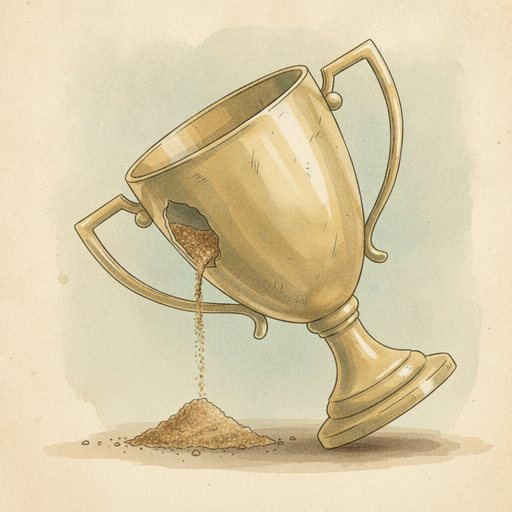
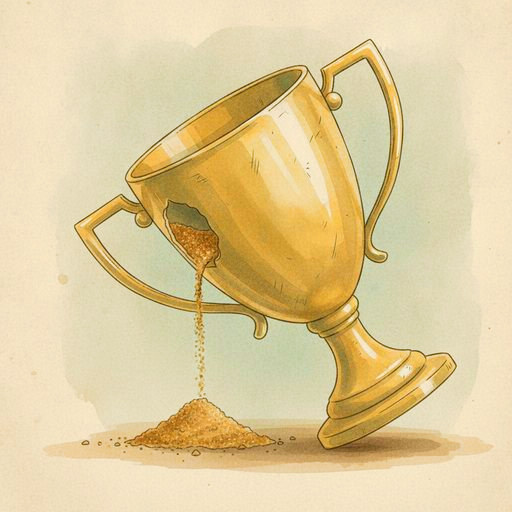
Dlazdice online lobby dobarveny, nastroj na dobarveni je nove v repu
Hrac: dlazdice Svetove ligy jsou prilis vybledle. Postup byl popsany
v CLAUDE.md od 15. 9., ale skript lezel ve scratchpadu minule session,
takze se psal znovu - stejna past, kvuli ktere se 13. 9. stehovaly
nastroje na ilustrace do repa.

scripts/ilustrace/dobarvi.js bere zdroj pres "git show HEAD", ne ze
souboru na disku. Dobarvit uz dobarveny JPEG je nevratna ztrata a slovni
varovani v dokumentaci nikdo pri patem spusteni necte.

Pletova barva snasi saturaci hur nez zbytek palety: pri sile 0,7, ktera
u globu a poharu vypada dobre, byla ruka na zk-daily neprirozene
oranzova. Porovnani ctyr sil ukazalo, ze 0,4 zvyrazni pozadi a plet
necha pleti. Proto zk-live, zk-link a zk-tourney 0,7, zk-daily 0,4.

Overeno v prohlizeci v lobby, ne jen na archu.

Changed region(s): [[0.125, 0.0938, 0.9062, 0.9375], [0.5625, 0.3125, 0.5938, 0.3438]]

diff --git a/scripts/ilustrace/dobarvi.js b/scripts/ilustrace/dobarvi.js
@@ -1,0 +1,106 @@
+"use strict";
+/**
+ * Dobarví malovanou ilustraci: zvýší sytost TAM, KDE UŽ BARVA JE, a nechá na pokoji
+ * papír. Bez toho zežloutne podklad a z ilustrace je fotka přes sepiový filtr.
+ *
+ * Váha je vzdálenost pixelu od barvy papíru, která se NAVZORKUJE Z ROHŮ obrázku —
+ * každá ilustrace má trochu jiný odstín papíru, takže pevná hodnota by u některé
+ * dobarvila i podklad. (CLAUDE.md 2026-09-15)
+ *
+ * ZDROJ SE BERE Z GITU, ne z disku. Dobarvit už dobarvený JPEG je nevratná ztráta
+ * a v projektu se to málem stalo — takhle to nejde ani omylem, ať se skript pustí
+ * kolikrát chce. Soubor musí být v HEAD; necommitnutý nový obrázek skript odmítne.
+ *
+ * Síla: 0,4 hráči nestačila, dlaždice témat i auth-hero jedou na 0,7,
+ * dlaždice kontinentů na ~0,55.
+ *
+ *   node scripts/ilustrace/dobarvi.js zk-live,zk-daily 0.7
+ *   node scripts/ilustrace/dobarvi.js zk-live 0.7 --nahled   (jen do .ilustrace/, nepřepíše)
+ */
+const path = require("path");
+const fs = require("fs");
+const { execFileSync } = require("child_process");
+const sharp = require("sharp");
+
+const KOREN = path.resolve(__dirname, "..", "..");
+const NAHLEDY = path.join(KOREN, ".ilustrace", "dobarveni");
+
+const args = process.argv.slice(2);
+const jmena = (args[0] || "").split(",").map(s => s.trim()).filter(Boolean);
+const sila = Number(args[1] || 0.7);
+const jenNahled = args.includes("--nahled");
+
+if (!jmena.length || !Number.isFinite(sila)) {
+  console.error("použití: node scripts/ilustrace/dobarvi.js jmeno1,jmeno2 [síla] [--nahled]");
+  process.exit(1);
+}
+
+/** Originál z gitu — pojistka proti druhému dobarvení téhož souboru. */
+function zGitu(rel) {
+  try {
+    return execFileSync("git", ["show", "HEAD:" + rel.replace(/\\/g, "/")],
+      { cwd: KOREN, maxBuffer: 64 * 1024 * 1024 });
+  } catch {
+    throw new Error("soubor není v HEAD (necommitnutý?): " + rel);
+  }
+}
+
+/** Barva papíru = průměr čtyř rohů. Rohy jsou u téhle sady vždy podklad. */
+function papirZRohu(data, w, h, kanalu, okno = 24) {
+  let r = 0, g = 0, b = 0, n = 0;
+  const rohy = [[0, 0], [w - okno, 0], [0, h - okno], [w - okno, h - okno]];
+  for (const [x0, y0] of rohy) {
+    for (let y = y0; y < y0 + okno; y++) {
+      for (let x = x0; x < x0 + okno; x++) {
+        const i = (y * w + x) * kanalu;
+        r += data[i]; g += data[i + 1]; b += data[i + 2]; n++;
+      }
+    }
+  }
+  return [r / n, g / n, b / n];
+}
+
+(async () => {
+  if (jenNahled) fs.mkdirSync(NAHLEDY, { recursive: true });
+
+  for (const jmeno of jmena) {
+    const rel = path.join("assets", jmeno + ".jpg");
+    const vstup = zGitu(rel);
+
+    const obr = sharp(vstup);
+    const meta = await obr.metadata();
+    const { data, info } = await obr.raw().toBuffer({ resolveWithObject: true });
+    const { width: w, height: h, channels: ch } = info;
+
+    const papir = papirZRohu(data, w, h, ch);
+    // Práh vzdálenosti, za kterým je pixel "plně barevný". 60 je změřené na téhle
+    // sadě: pod ním leží papírové skvrny a stíny, nad ním kresba.
+    const PRAH = 60;
+
+    let dotcenych = 0;
+    for (let i = 0; i < data.length; i += ch) {
+      const r = data[i], g = data[i + 1], b = data[i + 2];
+      const d = Math.hypot(r - papir[0], g - papir[1], b - papir[2]);
+      const vaha = Math.min(1, d / PRAH);
+      if (vaha <= 0.02) continue;
+      dotcenych++;
+
+      const luma = 0.299 * r + 0.587 * g + 0.114 * b;
+      const k = 1 + sila * vaha;
+      data[i]     = Math.max(0, Math.min(255, Math.round(luma + (r - luma) * k)));
+      data[i + 1] = Math.max(0, Math.min(255, Math.round(luma + (g - luma) * k)));
+      data[i + 2] = Math.max(0, Math.min(255, Math.round(luma + (b - luma) * k)));
+    }
+
+    const cil = jenNahled
+      ? path.join(NAHLEDY, jmeno + ".jpg")
+      : path.join(KOREN, rel);
+    await sharp(data, { raw: { width: w, height: h, channels: ch } })
+      .jpeg({ quality: 88, chromaSubsampling: "4:4:4" })
+      .toFile(cil);
+
+    const pct = Math.round(100 * dotcenych / (w * h));
+    console.log(`${jmeno}: ${w}×${meta.height}, papír ${papir.map(Math.round).join(",")}, ` +
+                `síla ${sila}, dotčeno ${pct} % plochy → ${path.relative(KOREN, cil)}`);
+  }
+})().catch(e => { console.error(e.message); process.exit(1); });

diff --git a/CLAUDE.md b/CLAUDE.md
@@ -81,6 +81,29 @@ jsou rozhodnutí hráče. **Po nasazení se hned vrať na pracovní větev**, ji
 
 Nejnovější nahoře. Formát: **datum — název** + jednou větou co a proč.
 
+- **2026-09-30 — Dobarvení ilustrací je NOVĚ NÁSTROJ V REPU (`scripts/ilustrace/dobarvi.js`)
+  a bere zdroj Z GITU, ne z disku. Čtyři dlaždice online lobby dobarveny.**
+  Hráč: dlaždice Světové ligy jsou „příliš vybledlé“. Postup na dobarvení byl popsaný
+  v zápisu 2026-09-15, ale **skript ležel ve scratchpadu minulé session, takže se musel
+  psát znovu** — přesně ta past, kvůli které se 2026-09-13 stěhovaly nástroje na ilustrace
+  do repa. Teď je v repu i tenhle.
+  - **Zdroj se čte přes `git show HEAD:assets/x.jpg`, ne ze souboru na disku.** Dobarvit
+    už dobarvený JPEG je nevratná ztráta a zápis z 15. 9. před tím varuje slovy („dobarvuje
+    se vždy z ORIGINÁLU“) — jenže slovní varování nikdo při pátém spuštění nečte. Takhle
+    to nejde ani omylem, ať se skript pustí kolikrát chce. Cena: soubor musí být v HEAD,
+    necommitnutý nový obrázek skript odmítne.
+  - **PLEŤ SNÁŠÍ SATURACI HŮŘ NEŽ ZBYTEK PALETY a je to nový poznatek.** Při síle 0,7,
+    která u dlaždic témat i u glóbu a poháru vypadá dobře, byla ruka na `zk-daily`
+    (vějíř karet) **nepřirozeně oranžová**. Porovnání čtyř sil vedle sebe ukázalo, že
+    **0,4 zvýrazní pozadí a pleť nechá pletí**. Dlaždice proto nemají jednu sílu:
+    `zk-live`, `zk-link`, `zk-tourney` 0,7, **`zk-daily` 0,4**.
+  - **Papír se navzorkuje z rohů každé ilustrace zvlášť** (naměřeno 239–248 na červené),
+    protože pevná hodnota by u některé dobarvila i podklad. Hlášené „dotčeno 97–100 %
+    plochy“ NENÍ chyba: papírová textura je kousek od průměru rohů, takže dostane váhu
+    blízkou nule — ne přesnou nulu. Ověřeno okem, podklad nezežloutl.
+  - **Past zaplacená cestou: sharp načítá líně a nechá soubor otevřený.** Druhý běh nad
+    tímtéž náhledem spadl na „unable to open for write“. Řeší `fs.readFileSync` do bufferu.
+  - Ověřeno v prohlížeči na lokálním serveru (lobby po přihlášení), ne jen na archu.
 - **2026-09-29 — Sdílený odkaz má konečně náhled. Veřejná adresa appky je JEDNA KONSTANTA
   `WEB` v `build-public.js`, v HTML se píše `{{WEB}}`.**
   Do teď byl odkaz v chatu i na sociální síti holý text, takže appku nikdo nepoznal —
